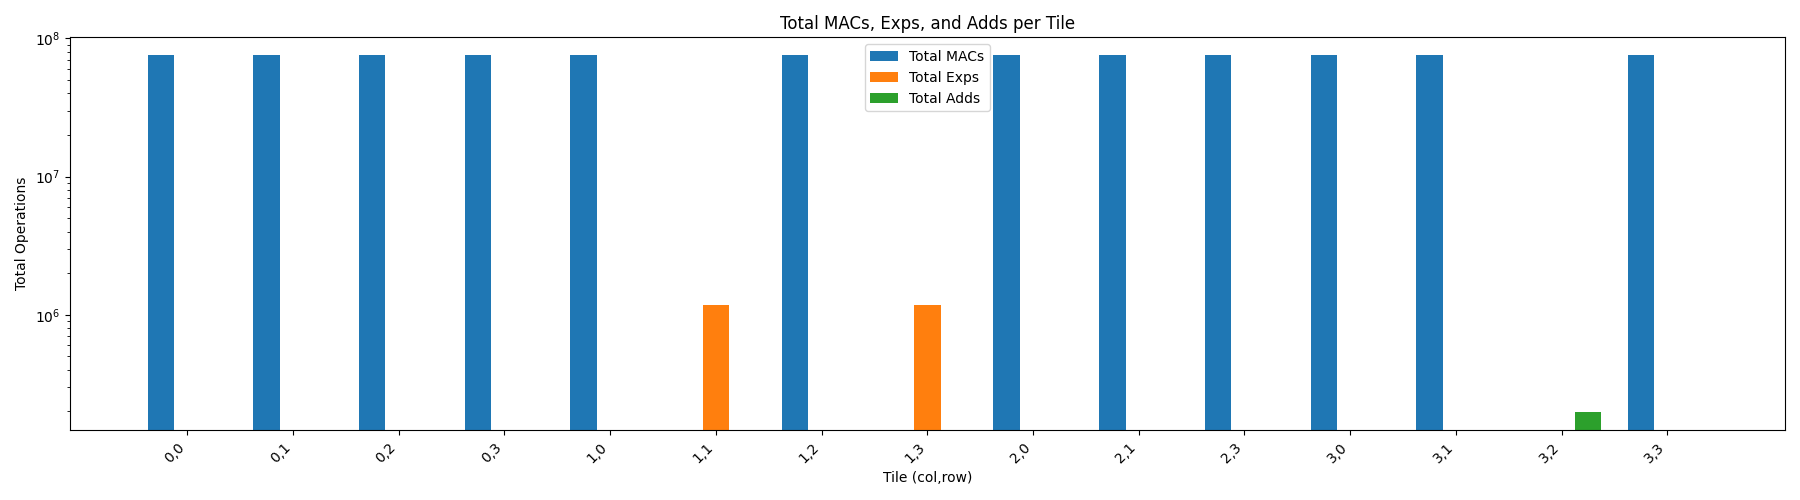
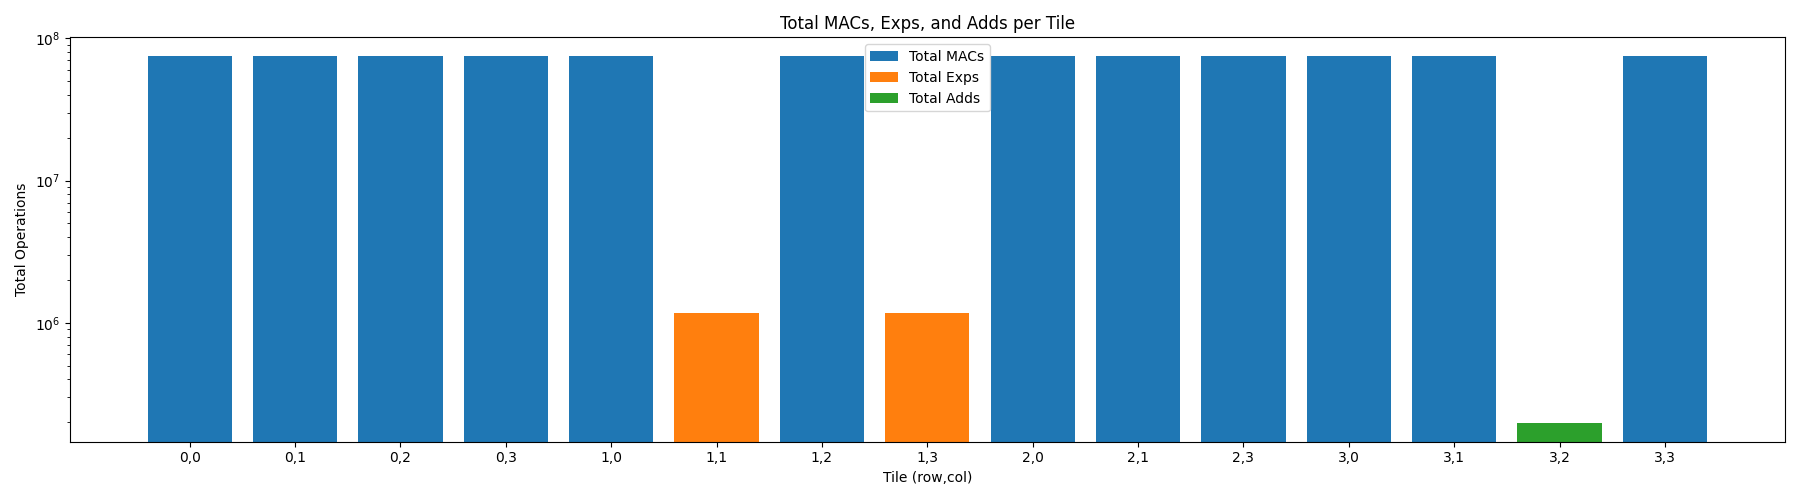
Fixed format of the plot of workload tiles

diff --git a/programming_examples/ml/transformer/scripts/run_analysis.py b/programming_examples/ml/transformer/scripts/run_analysis.py
@@ -7,6 +7,7 @@ import argparse
 import logging
 import csv
 import matplotlib.pyplot as plt
+import numpy as np
 
 def analyse_memory_utilization(dev, input_file, output_dir):
     """
@@ -562,20 +563,30 @@ def analyse_loop_iterations(input_file, output_dir):
     exps_vals = [total_exps_per_tile.get(tile, 0) for tile in all_tiles]
     adds_vals = [total_adds_per_tile.get(tile, 0) for tile in all_tiles]
 
-    # Plot bar chart
     fig, ax = plt.subplots(figsize=(max(8, len(all_tiles) * 1.2), 5))
-    width = 0.25
-    x = range(len(all_tiles))
-    ax.bar([i - width for i in x], macs_vals, width=width, label='Total MACs')
-    ax.bar(x, exps_vals, width=width, label='Total Exps')
-    ax.bar([i + width for i in x], adds_vals, width=width, label='Total Adds')
+    x = np.arange(len(all_tiles))
+    bar_macs = ax.bar(x, macs_vals, color='tab:blue', label='Total MACs')
+    bar_exps = ax.bar(x, exps_vals, color='tab:orange', label='Total Exps')
+    bar_adds = ax.bar(x, adds_vals, color='tab:green', label='Total Adds')
     ax.set_xticks(x)
-    ax.set_xticklabels(all_tiles, rotation=45, ha='right')
+    ax.set_xticklabels(all_tiles, ha='center')
     ax.set_ylabel('Total Operations')
-    ax.set_xlabel('Tile (col,row)')
+    ax.set_xlabel('Tile (row,col)')
     ax.set_title('Total MACs, Exps, and Adds per Tile')
     ax.set_yscale('log')
-    ax.legend()
+    # Only show legend for bars that have nonzero values
+    handles = []
+    labels = []
+    if any(macs_vals):
+        handles.append(bar_macs)
+        labels.append('Total MACs')
+    if any(exps_vals):
+        handles.append(bar_exps)
+        labels.append('Total Exps')
+    if any(adds_vals):
+        handles.append(bar_adds)
+        labels.append('Total Adds')
+    ax.legend(handles, labels, loc='upper right')
     plt.tight_layout()
     op_plot_file = os.path.join(output_dir, "tile_workload_ops.png")
     plt.savefig(op_plot_file)
